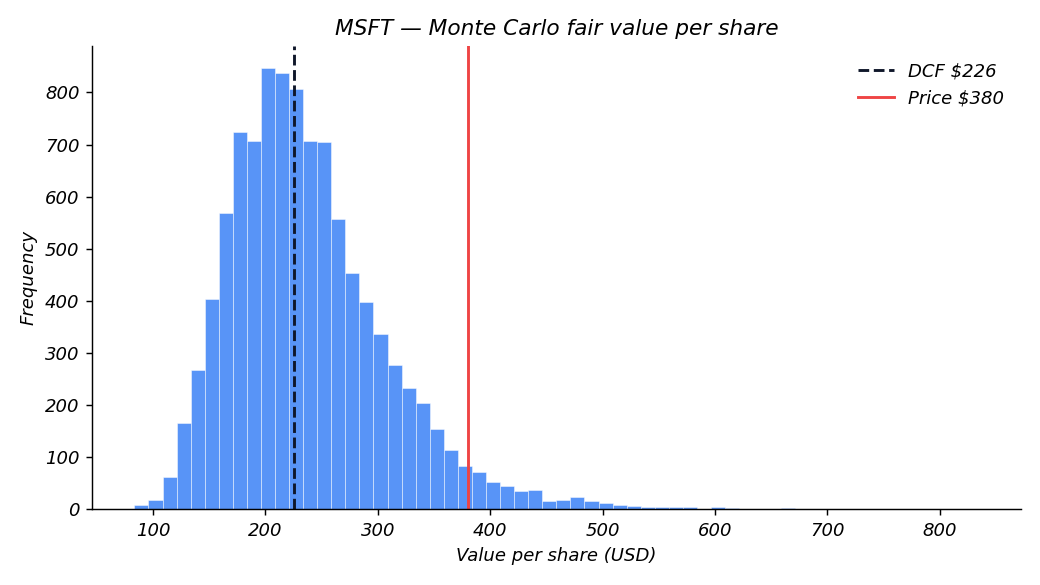
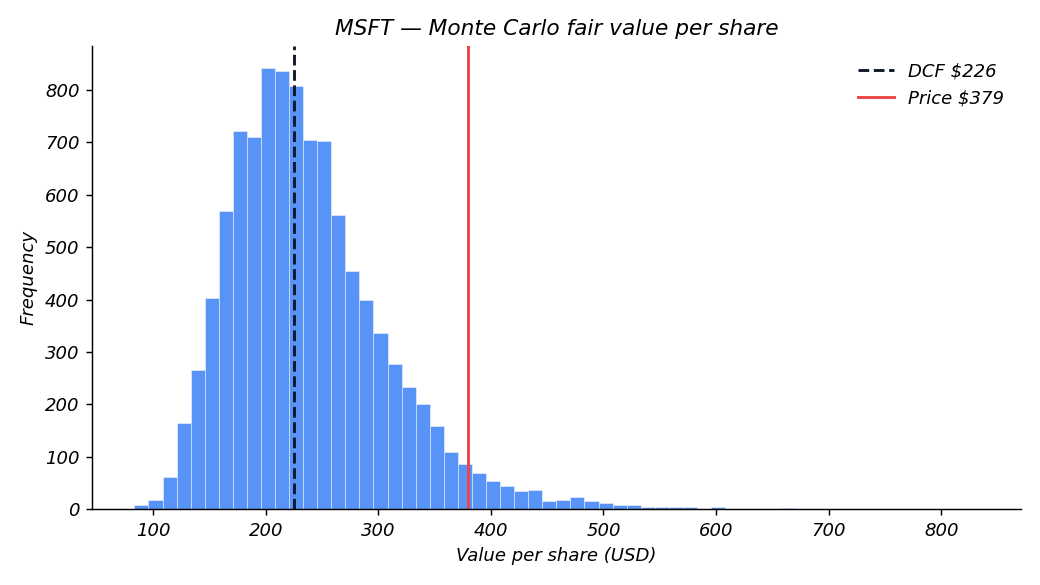
chore: refresh sample output artifacts from verification runs

diff --git a/equity-valuation/output/MSFT_research.md b/equity-valuation/output/MSFT_research.md
@@ -1,0 +1,29 @@
+# MICROSOFT CORPORATION (MSFT) — Automated Research Note
+
+*FY [2022, 2023, 2024, 2025] · SEC EDGAR + Yahoo · WACC 8.8% (beta 0.922). Generated by `analyze.py`. Not investment advice.*
+
+## Bottom line
+**Positives:** ROIC exceeds WACC (creates value); Piotroski F-Score 6/9 (middling); Altman Z 7.94 (safe); Beneish M -2.54 (clean); Accruals OK (cash-backed earnings)
+
+**Watch-outs:** —
+
+## Profitability & returns
+- Gross margin **68.8%** · Operating margin **45.6%** · Net margin **36.1%**
+- ROA **16.5%** · ROE **29.6%**
+- **ROIC 28.5% vs WACC 8.8% → spread 19.7%** (value-creating)
+- DuPont ROE = net margin 36.1% × asset turnover 0.46x × equity multiplier 1.80x = **29.6%**
+
+## Quality & forensic screens
+- **Piotroski F-Score: 6/9** (middling) — 9-point fundamental strength.
+- **Altman Z-Score: 7.94** (safe) — distress risk.
+- **Beneish M-Score: -2.54** (clean) — earnings-manipulation screen.
+- **Sloan accrual ratio: -0.0555** (high earnings quality).
+
+## Balance-sheet health
+- Current ratio **1.35x** · Debt/Equity **0.13x** · Net debt/EBITDA **0.08x**
+
+## Market-implied expectations (reverse DCF)
+- At the current price, the market implies a **flat 5-yr revenue growth of 21.1%** (WACC 8.8%). Ask: is that beatable or heroic?
+
+## Method & honesty
+Fundamentals are audited 10-K values from SEC EDGAR; any line a filing doesn't provide is shown as n/a, never fabricated. Scores use standard published formulas (Piotroski 2000, Altman 1968, Beneish 1999, Sloan 1996). This is a screen, not a recommendation.
